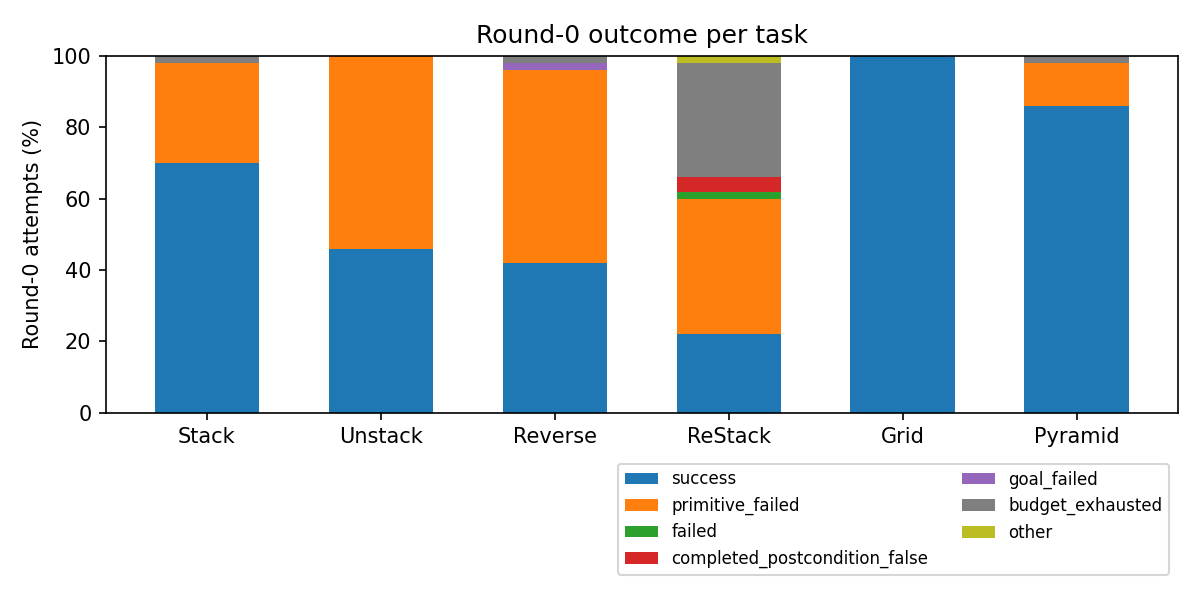
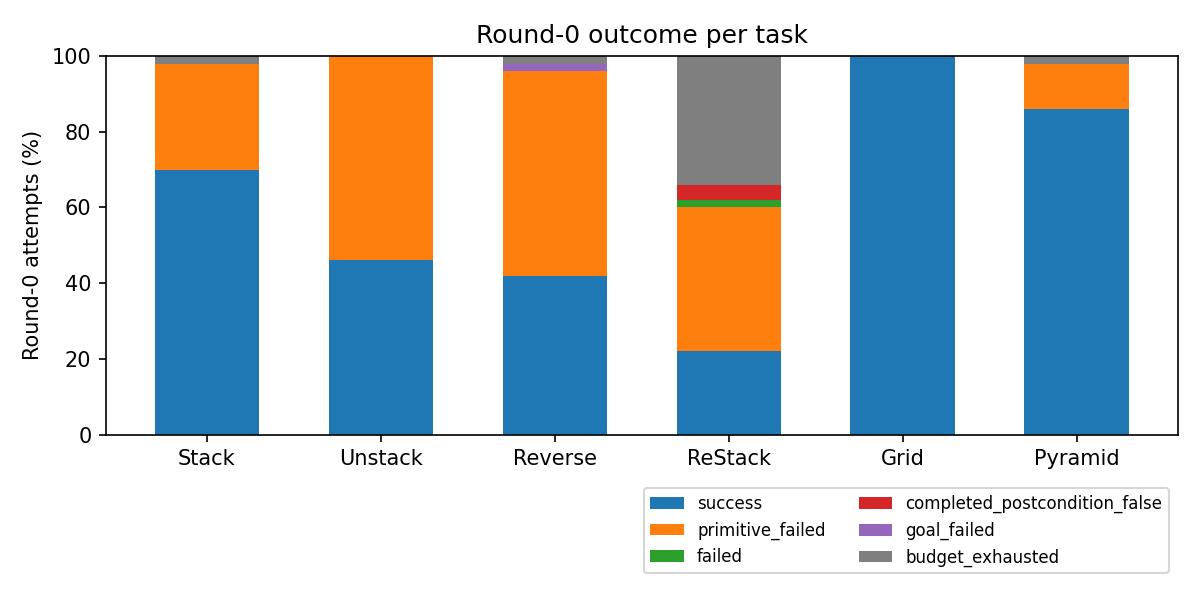
docs(cap): final_v2_wo_demo with the 1,000,000-step analysis budget
The user raised the experiment's DSL analysis budget from 100,000 to
1,000,000 steps. An offline recheck of all 481 analysed sources finds no
other verdict change (largest other analysis 73,810 steps). ReStack seed 3,
the only affected trial, was rerun with its recorded round-0 response and
succeeded in round 2: final success 300/300, ReStack 50/50. Section 4.2
documents the deviation; tables, costs and plots are regenerated.

diff --git a/roboverify/synthesis/cap/docs/final_v2_wo_demo_report.md b/roboverify/synthesis/cap/docs/final_v2_wo_demo_report.md
@@ -1,17 +1,16 @@
 # Final CaP results without demonstrations: `final_v2_wo_demo`, Claude Opus 5.5, 50 trials per task
 
-- **Date:** 2026-10-28.
+- **Date:** 2026-10-28; ReStack seed 3 rerun on 2026-10-29 with the raised analysis budget (Section 4.2).
 - **Run:** `runs/cap-final-v2-wo-demo/20261028-final-50/` (seeds 0–49 for every task). Its `report.md` lists every trial and round with its env steps.
-- **Configuration:** [`config_final_v2_wo_demo`](../configs/config_final_v2_wo_demo.py). This is [`config_final_v2`](../configs/config_final_v2.py) with the demonstration block off; nothing else changes.
+- **Configuration:** [`config_final_v2_wo_demo`](../configs/config_final_v2_wo_demo.py). This is [`config_final_v2`](../configs/config_final_v2.py) with the demonstration block off; nothing else changes. The experiment's static DSL analysis budget is 1,000,000 steps, by the user's decision after the run (Section 4.2).
 - **Comparison arm:** the demonstrations-on run of the [final_v1 report](final_v1_report.md) (`config_final_v2`, the same seeds; seed 50 replaces seed 39 for Unstack and Reverse there).
 - **Tables, data and figures:** `python -m synthesis.cap.reports.final_report` (Section 9). Partial reward follows [TASK_PARTIAL_REWARD.md](TASK_PARTIAL_REWARD.md).
 
 ## 1. Summary
 
 - **Final success:**
-  - 299/300 trials succeeded under the frozen criterion `task-spec-v2+final-release-v1`, within at most four recovery rounds.
-  - Every task except ReStack is at 50/50; ReStack is at 49/50.
-  - The one failure is a static-checker limit, not an execution failure (Section 4.2).
+  - 300/300 trials succeeded under the frozen criterion `task-spec-v2+final-release-v1`, within at most four recovery rounds. Every task is at 50/50.
+  - Under the checker's original 100,000-step analysis budget, ReStack seed 3 ended without a rollout because the analysis of its first program did not finish. The user raised the budget to 1,000,000 for the whole experiment. This changes no other analysis in the run, and the rerun of that trial succeeded in round 2 (Section 4.2).
 - **Round 0:** removing the demonstrations lowers first-program success on every tower task and on Pyramid:
 
   | | Stack | Unstack | Reverse | ReStack | Grid | Pyramid |
@@ -19,7 +18,7 @@
   | No demonstrations | 35/50 | 23/50 | 21/50 | 11/50 | 50/50 | 43/50 |
   | Demonstrations (final_v1) | 50/50 | 50/50 | 23/50 | 34/50 | 50/50 | 50/50 |
 
-  Recovery makes up the difference: mean recovery rounds rise from 0–0.78 to 0–1.34 per task.
+  Recovery makes up the difference: mean recovery rounds rise from 0–0.78 to 0–1.38 per task.
 - **Env steps:** reaching the successful program takes more environment steps:
   - 1.8× as many for Stack, 1.6× for Unstack, 1.5× for ReStack;
   - 1.4× for Pyramid, 1.15× for Grid, 1.06× for Reverse.
@@ -27,25 +26,26 @@
   Section 3.2 has the tables, and Fig. 11-style curves are in Section 3.3.
 - **Failures:**
   - The dominant failure is `Move` non-convergence: 90 of the 117 failed round-0 attempts across tasks.
-  - ReStack also exhausts the execution/query tick budget in 16 round-0 attempts.
+  - ReStack also exhausts the execution/query tick budget in 17 round-0 attempts.
   - No attempt failed only on the release check.
 - **Cost:**
-  - The 300 scored trials cost $56.74, of which ReStack accounts for $26.64.
+  - The 300 scored trials cost $57.08, of which ReStack accounts for $26.98.
   - Without the demonstration block, prompts are short, so the cache saves less: 42% of prompt tokens were read from cache, against 95% with demonstrations. Output tokens dominate the cost.
-  - The key's total was $57.94, including requeued trials. The smoke cost $1.01 on the earlier key.
-- **Run interruptions:** the run was stopped twice by request (Section 6). The 13 trials interrupted at those stops were rerun with their original seeds. No trial was dropped or rerun because of its outcome.
+  - The key's total was $58.27, including requeued trials and the two new calls of the ReStack seed 3 rerun ($0.33). The smoke cost $1.01 on the earlier key.
+- **Run interruptions and reruns:** the run was stopped twice by request (Section 6). The 13 trials interrupted at those stops were rerun with their original seeds. No trial was dropped. One further trial, ReStack seed 3, was rerun after the analysis budget change; it is the only trial whose result depends on that budget (Sections 4.2 and 6.4).
 
 ## 2. Configuration
 
 | Setting | Value |
 | --- | --- |
-| Model | Claude Opus 5.5 (`anthropic/claude-opus-5.5`) on OpenRouter, reasoning effort medium, 64k output tokens; routing Anthropic, then Claude Platform on AWS (475 of 476 scored calls served by Anthropic) |
+| Model | Claude Opus 5.5 (`anthropic/claude-opus-5.5`) on OpenRouter, reasoning effort medium, 64k output tokens; routing Anthropic, then Claude Platform on AWS (477 of 478 scored calls served by Anthropic) |
 | Method | `cap_method_2`, `dsl_only`, `typed_v5`, primitive prompt `primitive-prompt-v2` (`p0101`) |
 | Instructions | `task-instructions-v3`, as in final_v1 |
 | Demonstrations | **Off.** No demonstration block, and no measurement of one |
 | Recovery | On, up to 4 rounds, feedback profile `full`, RDP keyframes; success field `task_spec_success` |
 | Success criterion | `task-spec-v2+final-release-v1` |
 | Budgets per trial | 10,000 execution/query ticks, 10,000 simulation steps, 200,000 effort tokens, 12 model calls, 3,600 s |
+| Static DSL analysis | Work budget 1,000,000 steps per analysis (`RunConfig.max_analysis_steps`; checker default `MAX_ANALYSIS_STEPS = 100000`). The run used the default; ReStack seed 3, the only trial affected, was rerun with 1,000,000. No other analysed program in the run needs more than 73,810 steps (Section 4.2) |
 | Blocks | Stack, Unstack, Reverse 4; ReStack 5 (3-block source tower); Grid 2 × 3; Pyramid 3-2-1 |
 | Scenes | Fresh resets with seeds 0–49, settled for 50 steps. With no demonstrations there is no information-boundary rejection, so seed 39 is included for every task |
 | Prompt caching | `prompt_cache: "5m"`, first-response warm-up, as in final_v2; only the round-0 breakpoint exists |
@@ -61,7 +61,7 @@ The prompt text is final_v1's demonstrations-off text, byte for byte.
 | Stack | 4 | 50 | 35/50 (70%) | [56, 81] | 50/50 (100%) | [93, 100] | 0.30 | 1.32 | 11,238 |
 | Unstack | 4 | 50 | 23/50 (46%) | [33, 60] | 50/50 (100%) | [93, 100] | 0.62 | 1.64 | 12,863 |
 | Reverse | 4 | 50 | 21/50 (42%) | [29, 56] | 50/50 (100%) | [93, 100] | 0.86 | 1.88 | 16,702 |
-| ReStack | 5 | 50 | 11/50 (22%) | [13, 35] | 49/50 (98%) | [90, 100] | 1.34 | 2.42 | 37,004 |
+| ReStack | 5 | 50 | 11/50 (22%) | [13, 35] | 50/50 (100%) | [93, 100] | 1.38 | 2.46 | 37,626 |
 | Grid | 6 | 50 | 50/50 (100%) | [93, 100] | 50/50 (100%) | [93, 100] | 0.00 | 1.10 | 19,172 |
 | Pyramid | 6 | 50 | 43/50 (86%) | [74, 93] | 50/50 (100%) | [93, 100] | 0.14 | 1.16 | 21,980 |
 
@@ -76,7 +76,7 @@ The prompt text is final_v1's demonstrations-off text, byte for byte.
 | Stack | 35 | 50 | 50 | 50 | 50 |
 | Unstack | 23 | 46 | 50 | 50 | 50 |
 | Reverse | 21 | 38 | 48 | 50 | 50 |
-| ReStack | 11 | 28 | 41 | 49 | 49 |
+| ReStack | 11 | 28 | 42 | 50 | 50 |
 | Grid | 50 | 50 | 50 | 50 | 50 |
 | Pyramid | 43 | 50 | 50 | 50 | 50 |
 
@@ -94,7 +94,7 @@ The step count is taken until the final program succeeded, or until the trial fi
 | Stack | 50 | 225 | 201 | 118 | 583 | 0 | – |
 | Unstack | 50 | 257 | 236 | 114 | 566 | 0 | – |
 | Reverse | 50 | 334 | 299 | 154 | 823 | 0 | – |
-| ReStack | 49 | 755 | 689 | 297 | 1,756 | 1 | 0 (no rollout; Section 4.2) |
+| ReStack | 50 | 753 | 688 | 297 | 1,756 | 0 | – |
 | Grid | 50 | 383 | 375 | 295 | 563 | 0 | – |
 | Pyramid | 50 | 440 | 410 | 285 | 927 | 0 | – |
 
@@ -105,7 +105,7 @@ Compared with the demonstrations-on run (successful trials):
 | Stack | 225 | 124 | 1.81 | 201 | 124 |
 | Unstack | 257 | 160 | 1.61 | 236 | 159 |
 | Reverse | 334 | 316 | 1.06 | 299 | 260 |
-| ReStack | 755 | 496 | 1.52 | 689 | 388 |
+| ReStack | 753 | 496 | 1.52 | 688 | 388 |
 | Grid | 383 | 332 | 1.15 | 375 | 332 |
 | Pyramid | 440 | 318 | 1.38 | 410 | 318 |
 
@@ -130,12 +130,12 @@ Mean partial reward after each round (trials that already stopped keep their las
 | Stack | 0.72 | 1.00 | 1.00 | 1.00 | 1.00 |
 | Unstack | 0.83 | 0.95 | 1.00 | 1.00 | 1.00 |
 | Reverse | 0.59 | 0.85 | 0.99 | 1.00 | 1.00 |
-| ReStack | 0.62 | 0.85 | 0.95 | 0.98 | 0.98 |
+| ReStack | 0.62 | 0.86 | 0.97 | 1.00 | 1.00 |
 | Grid | 1.00 | 1.00 | 1.00 | 1.00 | 1.00 |
 | Pyramid | 0.87 | 1.00 | 1.00 | 1.00 | 1.00 |
 
 - **Unstack round 0:** partial reward (0.83) is far higher than round-0 success (46%). Many failed Unstack attempts had already placed most blocks on the table when a later `Move` failed to converge.
-- **ReStack:** the mean stops at 0.98 because the failed trial never executed (reward 0).
+- **ReStack:** the mean reaches 1.00 in round 3, when the last trial succeeds.
 
 ## 4. Failures
 
@@ -150,7 +150,7 @@ Round-0 attempts that did not reach `task_spec_success`:
 | Stack | 14 | 0 | 1 | | 15 |
 | Unstack | 27 | 0 | 0 | | 27 |
 | Reverse | 24 | 2 | 1 | 1 `goal_failed` (completed, postcondition false); 1 other primitive failure | 29 |
-| ReStack | 19 | 0 | 16 | 2 completed with the postcondition false; 1 `get` without a witness; 1 `analysis_failed` | 39 |
+| ReStack | 19 | 0 | 17 | 2 completed with the postcondition false; 1 `get` without a witness | 39 |
 | Grid | 0 | 0 | 0 | | 0 |
 | Pyramid | 6 | 0 | 1 | | 7 |
 
@@ -160,18 +160,63 @@ Round-0 attempts that did not reach `task_spec_success`:
   - The demonstrations show the clearances and waypoint heights that the reference programs use.
 - **Tick budget:**
   - Execution/query ticks count every query, guard and predicate evaluation as well as every simulation step. The budget is 10,000 per round.
-  - The 30 ReStack attempts that exhausted it over all rounds had used only 296–546 simulation steps. Their programs evaluate thousands of quantified conditions, and the budget ran out mid-execution, right after a primitive, rather than in a non-progressing loop.
+  - The 31 ReStack attempts that exhausted it over all rounds had used only 41–546 simulation steps. Their programs evaluate thousands of quantified conditions, and the budget ran out mid-execution, right after a primitive, rather than in a non-progressing loop.
+  - The 41-step attempt is round 0 of the ReStack seed 3 rerun. Its program moves the gripper toward each target in small increments through a helper, so each of its 40 primitives cost about 250 ticks. The other 30 attempts used 296–546 steps.
   - No demonstrations-on attempt hit this budget.
-- **Release check:** no attempt failed only because of the final release check. Attempts that ended holding a block (127 over all rounds) had all already stopped on an exception.
+- **Release check:** no attempt failed only because of the final release check. Attempts that ended holding a block (129 over all rounds) had all already stopped on an exception.
 
-### 4.2 The one failed trial: ReStack seed 3 (`analysis_failed`)
+### 4.2 Deviation: ReStack seed 3 rerun with a raised analysis budget
 
+**Under the original budget.**
 - **Status:** `analysis_failed`; stop reason `preparation_failure_no_rollout`.
 - **What happened:** the model's first program had 156 lines, 9 helpers and 3 loops. The static DSL checker's type, provenance and effect analysis exceeded its work budget (`MAX_ANALYSIS_STEPS = 100000`, `validation.py`) before reaching a verdict.
-- **Why the trial ended:** an unfinished analysis is neither a violation nor an approval. Under the frozen pipeline the program is not executed and is not sent to DSL repair, so the trial ended without a rollout and without recovery.
-- **Offline check (diagnostic only):** the same source was checked again with a budget of 1,000,000. The analysis finished in 0.3 s after about 181,000 steps and reported no violations.
-- **How it is counted:** this report keeps the trial as a failure, under the frozen configuration (final success 49/50). It is a checker-capacity outcome, so the summary separates it. Excluding it, ReStack would be 49/49.
-- **Comparison:** it did not occur in the 300 demonstrations-on trials. Demonstrations-off programs tend to be longer.
+- **Why the trial ended:** an unfinished analysis is neither a violation nor an approval. The program was therefore not executed and not sent to DSL repair, so the trial ended without a rollout and without recovery.
+- **Offline check:** the same source was checked again with a budget of 1,000,000. The analysis finished in 0.24 s after 181,327 steps and reported no violations.
+- **Comparison:** this did not occur in the 300 demonstrations-on trials. Programs written without demonstrations tend to be longer.
+
+**Decision.** The user raised the analysis budget to 1,000,000 steps for the whole experiment. Only this trial was rerun; the experiment was not repeated.
+
+**Why no other trial is affected.**
+- **Deterministic analysis:** the analysis is a deterministic function of the source and the task's DSL contract. The budget only decides whether it finishes, not the verdict it reaches.
+- **Recheck:** every analysed source in the run was checked again with the 1,000,000-step budget. That is 481 checks: 476 in the scored trials as they stood before the rerun (one per model call, including the 13 that failed the check) and 5 in requeued trials.
+- **No changed verdicts:** the step counts were not recorded during the run, so they were recomputed. Every verdict and diagnostic matched the recorded check report, except for this program (error → pass).
+- **Step counts:** no other source needed more than 73,810 steps, which is ReStack seed 29. The maximum per task is:
+  - Stack 11,409; Unstack 9,599; Reverse 27,487;
+  - ReStack 73,810; Grid 7,690; Pyramid 12,465.
+
+  Only four sources exceeded 50,000 steps, all ReStack: 181,327 (seed 3), 73,810, 65,348 and 61,307.
+- **Same checker:** all 481 recorded reports carry the same checker source hash (`38c82d20…`). No analysis came close to the 10-second checker deadline; the longest took 0.24 s.
+
+**Rerun procedure.**
+- **Requeue:** the trial was requeued as in Section 6.1:
+  - its directory was moved to `replaced/cap_method_2-dsl_only-004-1`;
+  - `requeued.json` records the reason and the previous state;
+  - its finished video job was moved to `replaced/render_queue/`.
+- **Job spec:** the job is the manifest's job with two explicit additions:
+  - `run_config.max_analysis_steps: 1000000`;
+  - `replay_calls`, the recorded round-0 request and response.
+- **Round 0 is not resampled:** the failure was in the checker, not in the model. The worker therefore returns the recorded response only after checking that the new round-0 request is identical to the recorded one, which it was (all 100 recorded ReStack round-0 requests are identical). This round sends no provider request.
+- **Same scene:** the seed and the settled initial state are unchanged. `initial_state.npz` is byte-identical to the original trial's.
+- **Recovery rounds:** later rounds made live model calls under the unchanged configuration. They used one worker and a GPU from the batch's allowlist (GPUs 6 and 7).
+- **Code:**
+  - the budget option is `65a6499`;
+  - the replay is `6fb6ddd`;
+  - the report's handling of replayed calls is `2a0f3c9`.
+
+  The worker ran at `6fb6ddd`. The worktree also held a concurrent session's uncommitted edits: an opt-in relaxed reset for Revision 9, off by default. They did not change this scene, as the identical initial state shows.
+
+**Rerun outcome.**
+
+| Round | Program | Outcome | Env steps |
+| --- | --- | --- | ---: |
+| 0 | Original response, replayed; analysis passes (1,000,000-step budget) | Tick budget exhausted (10,001 ticks) | 41 |
+| 1 | New call | `Move` non-convergence | 169 |
+| 2 | New call | Success (`task_spec_success`) | 412 |
+
+- **Totals:** 2 recovery rounds, 3 model calls (1 replayed, 2 new), 68,962 effort tokens and 622 env steps.
+- **Cost:** $0.72, including the replayed call's $0.39. The new spend is $0.33.
+- **Wall time:** 128 s. This excludes the 205 s that generating the round-0 response originally took.
+- **How it is counted:** the rerun replaces the trial, so final success is 50/50. Its round 0 failed, so ReStack's round-0 success is still 11/50. The failure is now a tick-budget exhaustion instead of `analysis_failed`.
 
 ## 5. Cost and prompt caching
 
@@ -184,18 +229,21 @@ Round-0 attempts that did not reach `task_spec_success`:
 | Stack | 66 | 423,320 | 231,651 (55%) | 7,354 | 170,505 | $4.23 | $0.085 | 44 s |
 | Unstack | 82 | 738,787 | 302,965 (41%) | 7,670 | 339,334 | $8.60 | $0.172 | 81 s |
 | Reverse | 94 | 948,833 | 360,360 (38%) | 12,012 | 423,332 | $10.90 | $0.218 | 98 s |
-| ReStack | 121 | 1,557,868 | 446,775 (29%) | 7,770 | 1,105,053 | $26.64 | $0.533 | 243 s |
+| ReStack | 123 | 1,593,410 | 450,660 (28%) | 11,655 | 1,115,202 | $26.98 | $0.540 | 242 s |
 | Grid | 55 | 249,910 | 215,424 (86%) | 8,976 | 123,232 | $2.65 | $0.053 | 35 s |
 | Pyramid | 58 | 353,408 | 249,040 (70%) | 9,056 | 161,749 | $3.71 | $0.074 | 45 s |
-| **Scored trials** | **476** | **4,272,126** | **1,806,215 (42%)** | **52,838** | **2,323,205** | **$56.74** | | |
+| **Scored trials** | **478** | **4,307,668** | **1,810,100 (42%)** | **56,723** | **2,333,354** | **$57.08** | | |
 
 - **Why caching saves less here:** without demonstrations, the round-0 prompt is only about 3.7–4.5k tokens. The cacheable prefix is therefore small. Recovery requests add long feedback that is new each time, so their uncached share is large.
-- **Output dominates the cost:** 2.3M output tokens at $20/M account for about $46 of the $56.74.
+- **Replayed call:** the scored figures count the rerun's replayed round-0 call once, with the rerun. It was paid once, by the original trial.
+- **Output dominates the cost:** 2.3M output tokens at $20/M account for about $47 of the $57.08.
   - ReStack alone produced 1.1M output tokens, about 9k per call.
   - With demonstrations, the same 300 trials produced 1.0M output tokens over all tasks.
-- **Rest of the key's spend:** the key's total of $57.94 also covers:
+- **Rest of the key's spend:** the key's total of $58.27 also covers:
   - the calls of the 13 requeued trials ($0.83);
   - requests still in flight at the two stops.
+
+  It was $57.94 before the rerun; the rerun's two new calls added $0.33.
 
 ## 6. Run log and deviations
 
@@ -225,6 +273,13 @@ Round-0 attempts that did not reach `task_spec_success`:
 - **No runtime difference:** the commits between them change only documentation and the report module. Runtime, prompt and checker code are identical across sessions.
 - **Earlier change:** `8cdf4d7`, before the run, makes demonstrations-off trials record their provider cache summary (`prefix_cache`). It does not change requests or execution.
 
+### 6.4 ReStack seed 3 rerun (analysis budget)
+
+- **When:** on 2026-10-29, after the run had finished, the user raised the experiment's analysis budget from 100,000 to 1,000,000 steps.
+- **What was rerun:** ReStack seed 3 was the only trial whose result depended on the budget, and only it was rerun (Section 4.2).
+- **How:** the requeue record follows Section 6.1. Its reason names the budget change, so the requeue table of the generated report lists it under "Other".
+- **Videos:** the batch was resumed afterwards with no pending trials, only to render the rerun's three deferred videos (119 of 119 videos completed).
+
 ## 7. Smoke
 
 One trial per task (seed 0) under `runs/cap-final-v2-wo-demo/20261028-smoke/`:
@@ -235,14 +290,15 @@ One trial per task (seed 0) under `runs/cap-final-v2-wo-demo/20261028-smoke/`:
 
 ## 8. Interpretation and limits
 
-- **What demonstrations buy:** final success is near the ceiling in both arms, so the demonstrations' effect shows in three places:
+- **What demonstrations buy:** final success is at or near the ceiling in both arms (300/300 here), so the demonstrations' effect shows in three places:
   - first-program success, for example ReStack 22% against 68% and Unstack 46% against 100%;
   - recovery depth;
-  - env steps and cost. ReStack costs $0.53 per trial against $0.25.
+  - env steps and cost. ReStack costs $0.54 per trial against $0.25.
 
   The recovery loop compensates for missing demonstrations through executed feedback. Each failed rollout is an environment interaction that the demonstrations would have avoided.
 - **Grid:** the only task unaffected at round 0 (50/50 in both arms). Its reference structure (nested goal loops with `HasBlock`) follows directly from the goal API.
-- **Statistics:** at n = 50, the final-success results bound true rates only at ≥ 93% (or ≥ 90% for ReStack's 49/50, by Wilson 95%). Round-0 differences between arms are much larger than their intervals for Stack, Unstack, ReStack and Pyramid. For Reverse (42% against 46%) they are not distinguishable.
+- **Statistics:** at n = 50, each task's 50/50 final success bounds its true rate only at ≥ 93% (Wilson 95%). Round-0 differences between arms are much larger than their intervals for Stack, Unstack, ReStack and Pyramid. For Reverse (42% against 46%) they are not distinguishable.
+- **Analysis budget:** the 1,000,000-step budget was set after the run, in response to one failure. It changes no other verdict in this run. A future program could still exhaust it.
 - **Scope:** one model, one reasoning effort and one block count per task. Generalization to other block counts is the subject of [Revision 9](revision_9_generalization_checker.md). Whether these programs verify is the subject of [Revision 8](revision_8_verification.md).
 
 ## 9. Reproduction
@@ -252,7 +308,8 @@ One trial per task (seed 0) under `runs/cap-final-v2-wo-demo/20261028-smoke/`:
 export OPENROUTER_API_KEY=...   # never on argv; read from the key file
 python -m synthesis.cap.experiments.revision6_experiment \
     --root runs/cap-final-v2-wo-demo/20261028-final-50 --model claude-opus-5.5 \
-    --frozen final_v2_wo_demo --trials 50 --seed-start 0 --workers 2
+    --frozen final_v2_wo_demo --trials 50 --seed-start 0 --workers 2 \
+    --max-analysis-steps 1000000
 python -m synthesis.cap.reports.batch_set_report runs/cap-final-v2-wo-demo/20261028-final-50
 python -m synthesis.cap.reports.final_report runs/cap-final-v2-wo-demo/20261028-final-50 \
     --output runs/cap-final-v2-wo-demo/20261028-final-50/analysis \
@@ -262,5 +319,7 @@ python -m synthesis.cap.reports.final_report runs/cap-final-v2-wo-demo/20261028-
     --compare "Demonstrations (final_v2)" runs/cap-final-v2/20261027-final-50-supplement
 ```
 
+- **Analysis budget:** `--max-analysis-steps 1000000` sets the experiment's analysis budget. The recorded run used the default, 100,000, except for the ReStack seed 3 rerun.
+- **The rerun:** a one-off driver, not kept in the repository, ran `synthesis.cap.batch_worker` on the job spec of Section 4.2. That spec is `trials/cap_method_2-dsl_only-004/job.json`, with `max_analysis_steps` and `replay_calls`. The driver then wrote the summary and the batch report with `synthesis.cap.batch`'s `collect_job` and `write_report`.
 - **Concurrency:** use at most about 2–3 workers per task on one OpenRouter key; a single remaining batch can use more.
 - **Generated outputs:** the report module writes `final_v2_wo_demo_data.json`, `final_v2_wo_demo_tables.md` and the comparison arm's progress data to `--output`, and six figures to `docs/plots/final_v2_wo_demo_*.png`.
